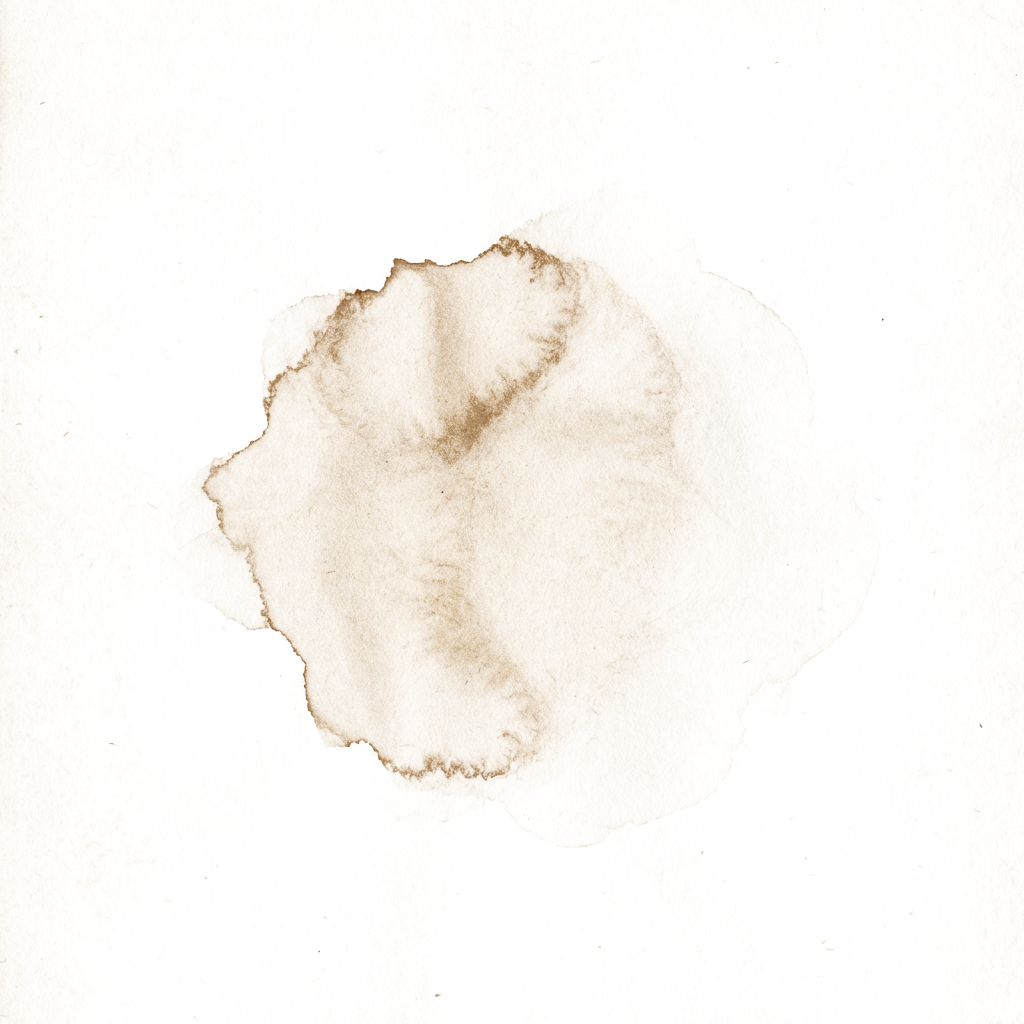
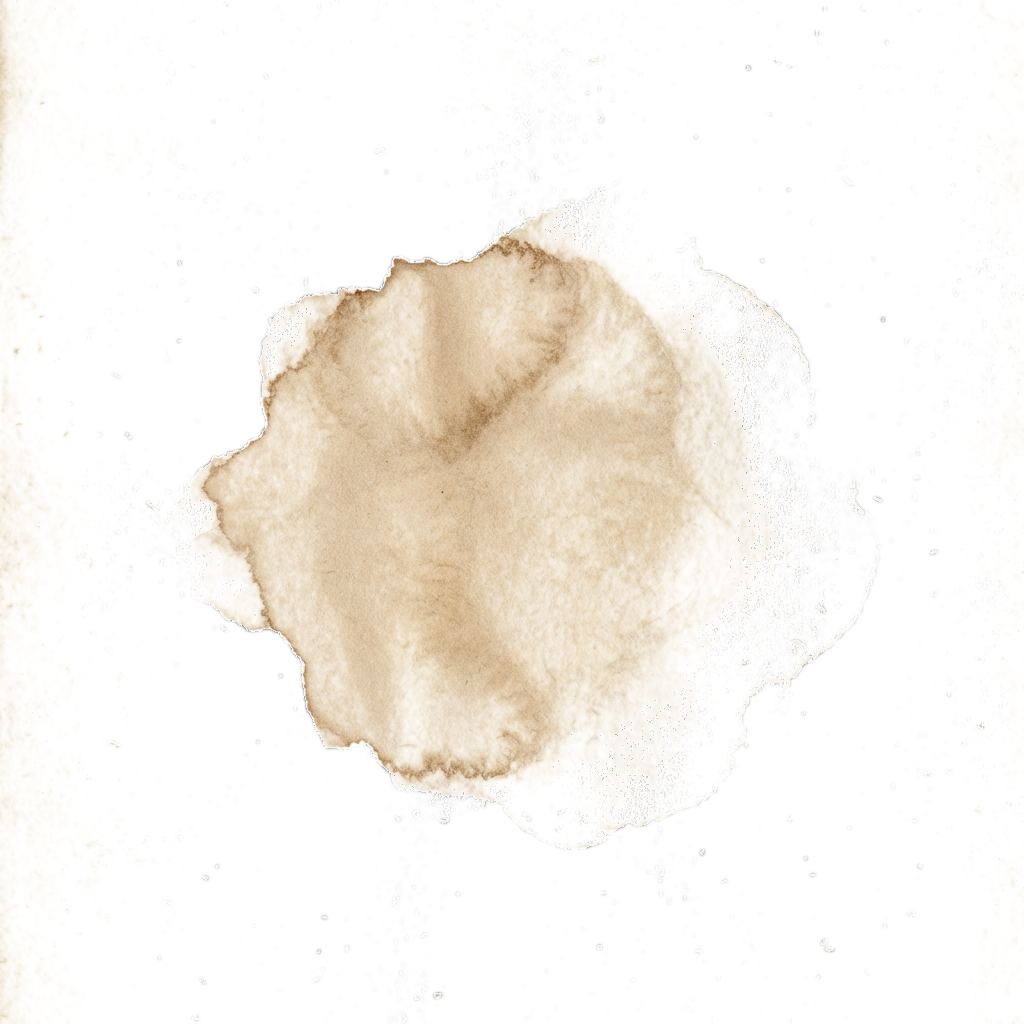
染みPNGの透過処理を厳密化（紙色を確実に透明化＋エッジをガウシアンフェザー）・便箋プレースホルダーの『本当は』を削除

Changed region(s): [[0.1875, 0.2188, 0.7188, 0.7812], [0.0, 0.0312, 0.0312, 0.125]]

diff --git a/app/app.js b/app/app.js
@@ -3014,7 +3014,7 @@ function openLetterModal(p) {
           <b>後日、AIと連動予定</b>（偉人ごとの人格・思想を踏まえた返信）。
         </div>
         <textarea class="letter-textarea" id="letterTextarea" rows="10"
-          placeholder="${p.name}さんへ、今の自分の気持ちを綴ってください。&#10;&#10;時を超えた誰かに宛てた手紙は、本当は自分自身への手紙でもあります。"></textarea>
+          placeholder="${p.name}さんへ、今の自分の気持ちを綴ってください。&#10;&#10;時を超えた誰かに宛てた手紙は、自分自身への手紙でもあります。"></textarea>
         <div class="letter-footer-date">${new Date().toLocaleDateString('ja-JP', { year: 'numeric', month: 'long', day: 'numeric' })}</div>
         <div class="letter-hint">※ この手紙は『わたしの本』に保管されます。登録すると、端末を変えても消えません。</div>
       </div>
